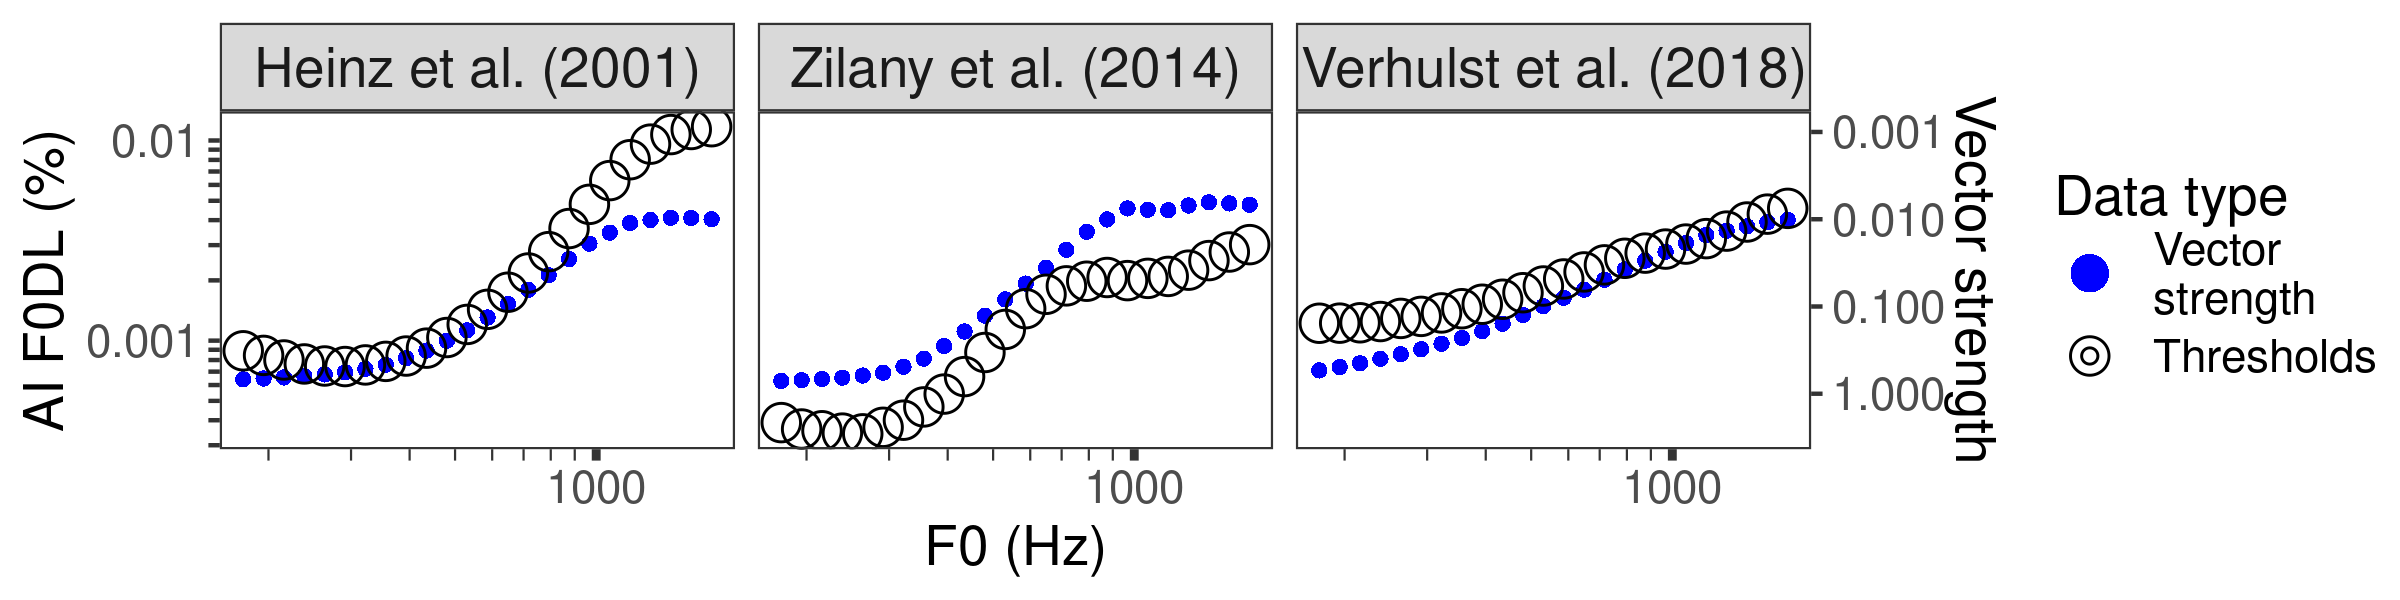
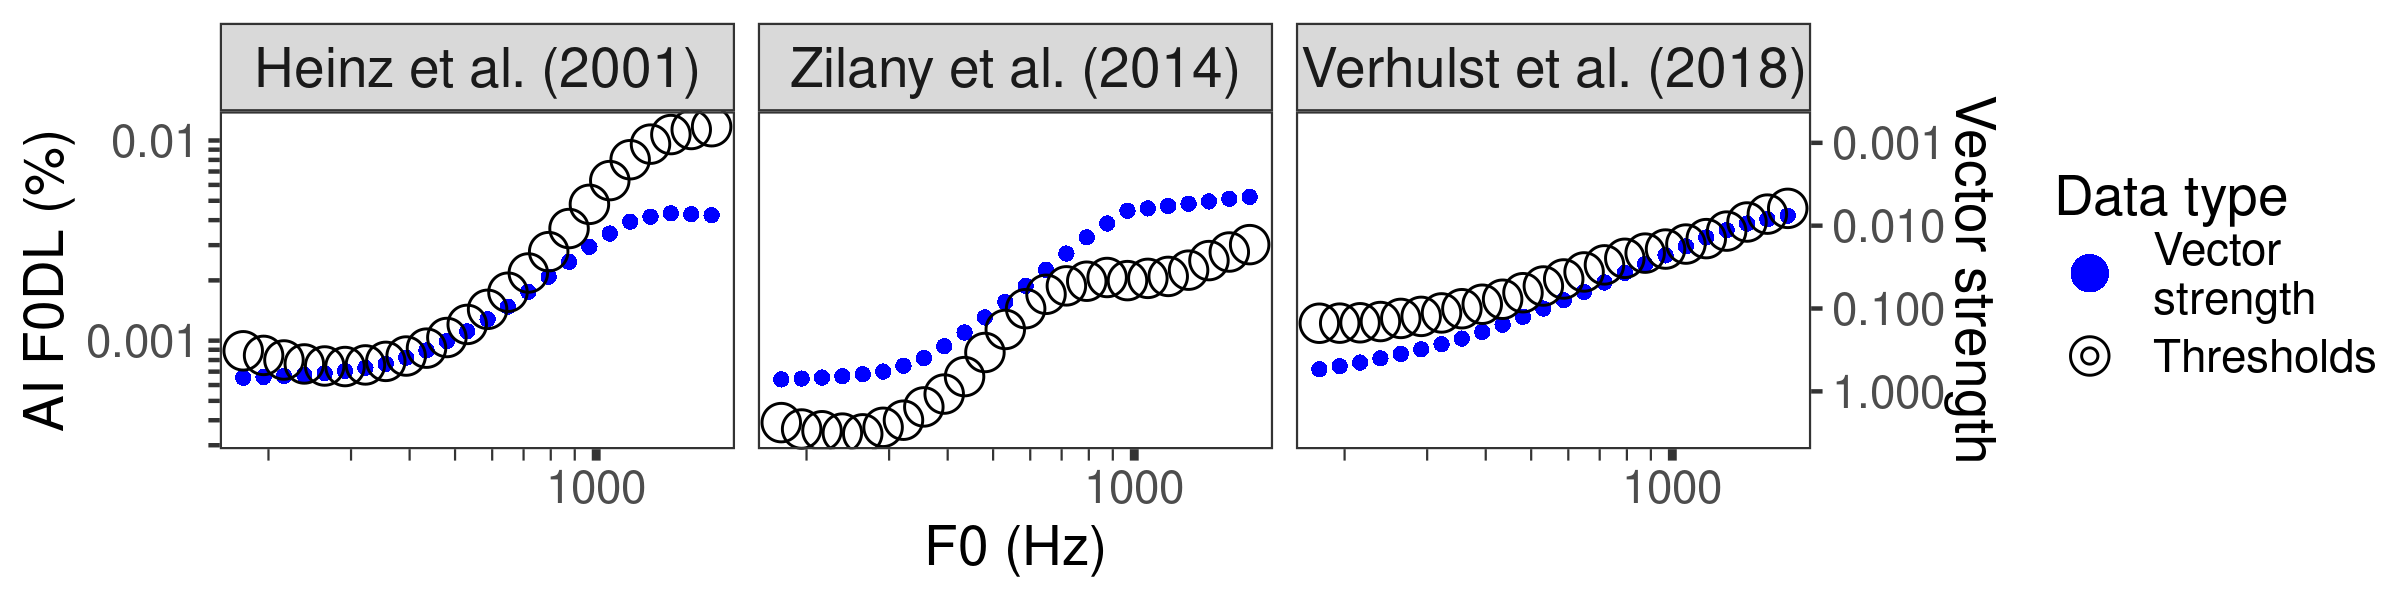
Minor fixes in Figure 1 / 6 / 7

diff --git a/nofigure/vector_strength_curves/vector_strength_curves.py b/nofigure/vector_strength_curves/vector_strength_curves.py
@@ -90,7 +90,7 @@ def estimate_vector_strength(freqs, fs, model, model_name, n_rep, n_stim_rep, du
 # Define parameters
 fs = int(200e3)  # sampling rate in Hz
 n_rep = 50
-n_stim_rep = 150
+n_stim_rep = 300
 freqs = 10**np.linspace(np.log10(200), np.log10(20000), 25)  # CFs for which we will measure vector strength curves
 
 # Save cfs, levels, and freqs to disk
